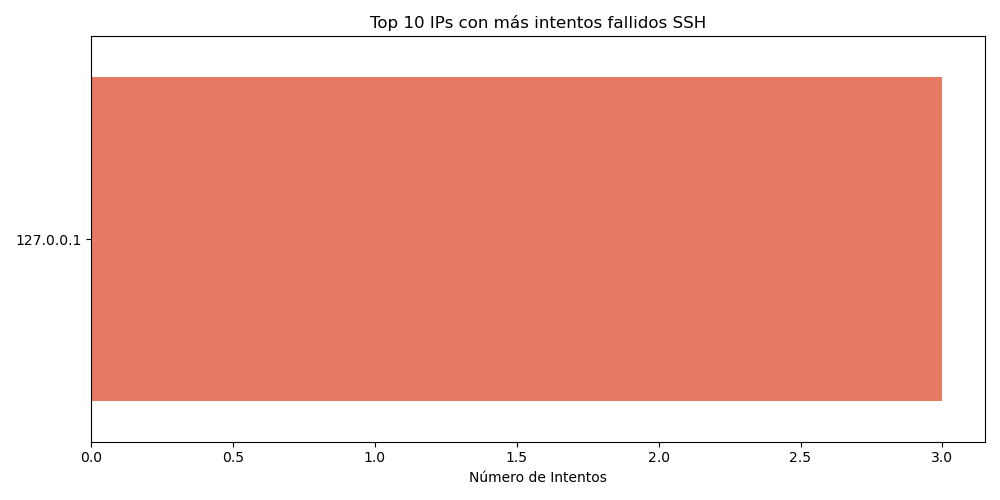
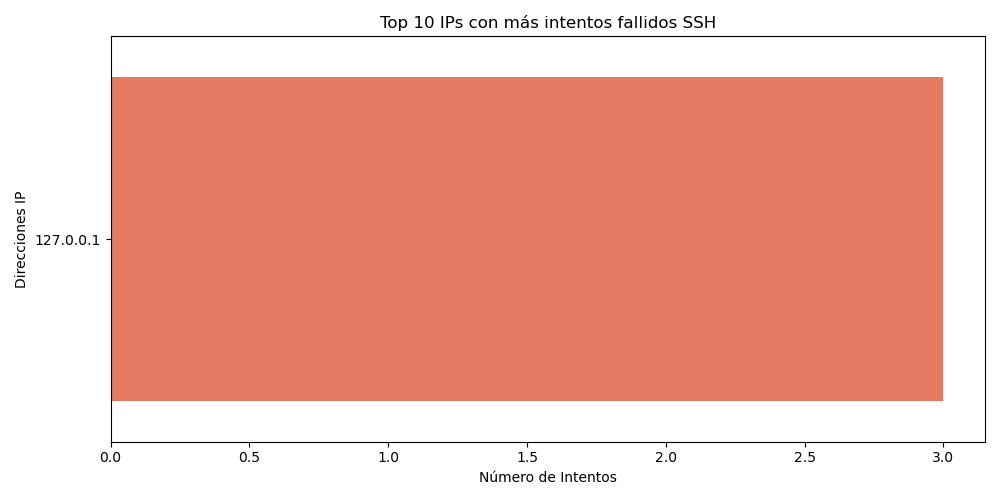
Lab1

diff --git a/lab1/visualizar.py b/lab1/visualizar.py
@@ -24,24 +24,30 @@ try:
     ips_sospechosas = ssh_data.get("ips_sospechosas", [])
     
     if ips_sospechosas:
-        ips = [item["ip"] for item in ips_sospechosas[:10]]
-        intentos = [item["intentos"] for item in ips_sospechosas[:10]]
+        # Forzar orden descendente por intentos
+        ips_ordenadas = sorted(ips_sospechosas, key=lambda x: x["intentos"], reverse=True)[:10]
+        
+        ips = [item["ip"] for item in ips_ordenadas]
+        intentos = [item["intentos"] for item in ips_ordenadas]
         
         plt.figure(figsize=(10, 5))
-        # Se asigna 'hue' para solucionar la advertencia de la biblioteca
-        sns.barplot(x=intentos, y=ips, hue=ips, palette="Reds_r", legend=False)
+        # Invertimos con [::-1] para que la barra más larga quede arriba del todo
+        sns.barplot(x=intentos[::-1], y=ips[::-1], hue=ips[::-1], palette="Reds_r", legend=False)
+        
         plt.title("Top 10 IPs con más intentos fallidos SSH")
         plt.xlabel("Número de Intentos")
+        plt.ylabel("Direcciones IP")
         plt.tight_layout()
         plt.savefig(os.path.join(GRAFICAS_DIR, "top_10_ssh_fallidos.png"))
         plt.close()
-        print("✔ Gráfico 1 (Barras SSH) generado.")
+        print("✔ Gráfico 1 (Barras SSH Ordenado) generado.")
 except Exception as e:
     print(f"⚠ Error en Gráfico 1: {e}")
 
-# Parsing robusto de access.log para Gráficos 2 y 3
+# -------------------------------------------------------------------------
+# Procesamiento de access.log para Gráficos 2 y 3
+# -------------------------------------------------------------------------
 log_data = []
-# Captura la IP [grupo 1], la fecha [grupo 2] y el código de estado [grupo 3] de forma segura
 LOG_MINIMAL_REGEX = r'^(\S+) \S+ \S+ \[(.*?)\] ".*?" (\d{3})'
 
 if os.path.exists(ACCESS_LOG):
@@ -55,7 +61,7 @@ if os.path.exists(ACCESS_LOG):
                     dt = datetime.strptime(time_part, "%d/%b/%Y:%H:%M:%S")
                     log_data.append({"Hora": dt.hour, "Status": int(status)})
                 except Exception:
-                    continue # Omite líneas con formatos de fecha corruptos
+                    continue
 
 df = pd.DataFrame(log_data)
 
